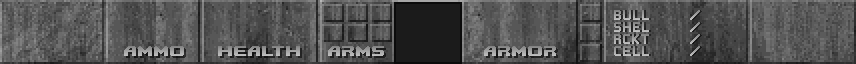
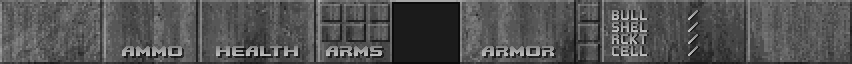
Better calculation of screen width in widescreen mode
So SBAR2 can be correct width now. Affects console background though.

diff --git a/src/i_video.c b/src/i_video.c
@@ -1889,7 +1889,7 @@ void I_GetScreenDimensions (void)
     {
         SCREENWIDTH = w * ah / h;
         // [crispy] make sure SCREENWIDTH is an integer multiple of 4 ...
-        SCREENWIDTH = (SCREENWIDTH + 3) & (int)~3;
+        SCREENWIDTH = (SCREENWIDTH + 1) & (int)~3;
         // [crispy] ... but never exceeds MAXWIDTH (array size!)
         SCREENWIDTH = MIN(SCREENWIDTH, MAXWIDTH);
 
